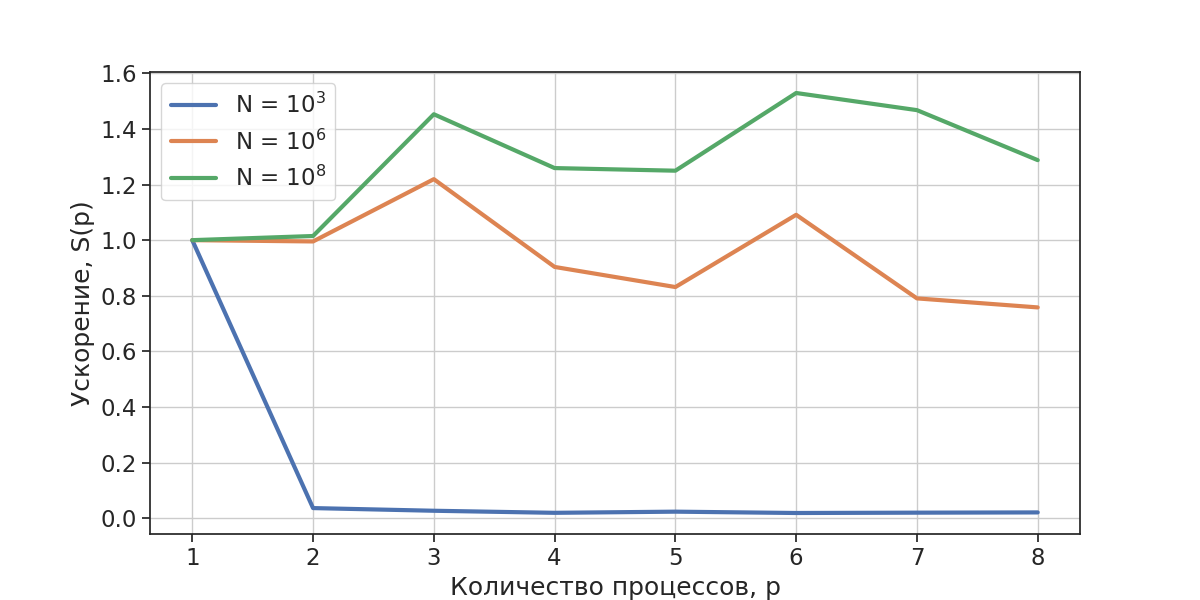
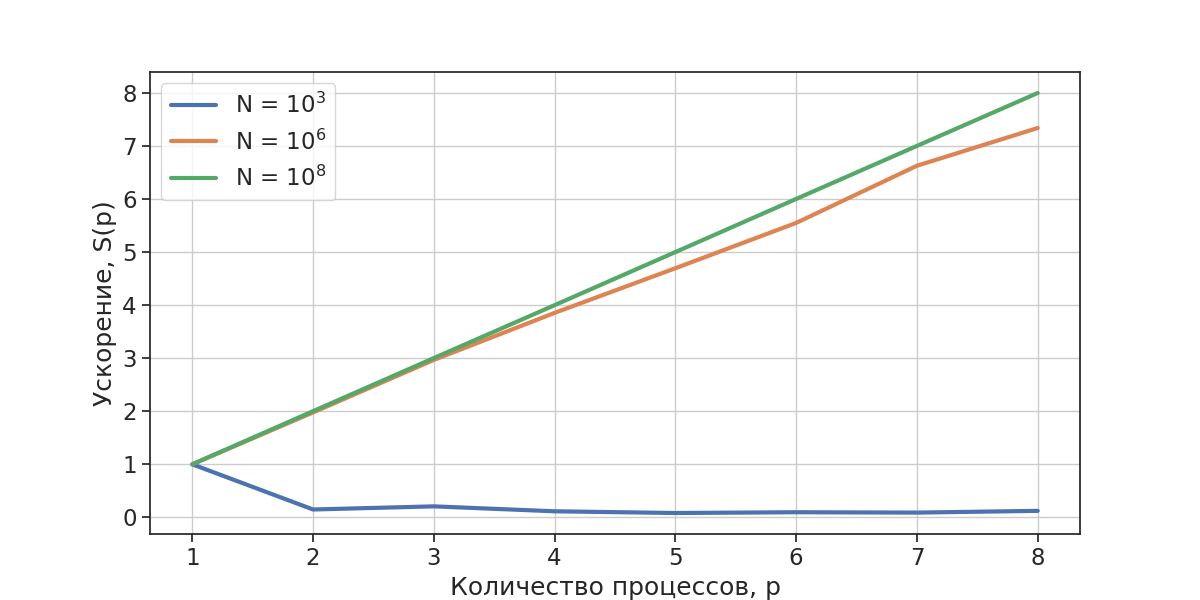
integration version without sending arrays

diff --git a/MPI_OpenMP/hw1_mpi_integral/main.cpp b/MPI_OpenMP/hw1_mpi_integral/main.cpp
@@ -36,83 +36,117 @@ int N_from_cli(int argc, char *argv[]) {
 
 
 
+// double trap(double left, double right, int n, double h) {
+//     double f_cur, f_next;
+//     double x_cur = left;
+//     double x_next = x_cur + h;
+//     double integral = 0;
+//     for (int i = 0; i < n-1; i++) {
+//         f_cur = 4 / (1 + x_cur * x_cur);
+//         f_next = 4 / (1 + x_next * x_next);
+//         integral += (h * 0.5 * (f_cur + f_next));
+//         x_cur += h;
+//         x_next += h;
+//     }
+
+//     return integral;
+// }
+
+
+
 int main(int argc, char *argv[]) {
     int i;
     int pid, n_proc;
     double sum, partial_sum;
     int n_single, n_single_last, last_index;
-    double begin_time, end_time, T_1, T_p, begin_seq, end_seq;
+    double begin_time, end_time, T_1, T_p, begin_seq, end_seq, global_begin_time, global_end_time, T_global;
     double h;
+    double left, right, last_left, last_right;
+    double f_cur, f_next;
 
     MPI_Init(&argc, &argv);
     MPI_Comm_size(MPI_COMM_WORLD, &n_proc);
     MPI_Comm_rank(MPI_COMM_WORLD, &pid);
     MPI_Status Status;
 
+
     int N = N_from_cli(argc, argv);
 
-    double* f = new double[N+1];
-    
     double a = 0;
     double b = 1;
-    h = (double)b / N;
+    h = (double)(b - a) / N;
+   
 
-    n_single = N / n_proc;  // size of subarray for each process
-    n_single_last = n_single + (N % n_proc);
-
+    if (pid != n_proc-1) {
+        n_single = (N / n_proc);
+    } 
+    else {
+        n_single = (N / n_proc) + (N % n_proc);
+    }
+    
 
     // master process
     if (pid == 0) {
-
-        // grid values
-        double* x = new double[N+1];
-        x[0] = 0;
-        for (int i = 1; i < N+1; i++) {
-            x[i] = x[i-1] + h;
-        }
-        // func values
-        for (int i = 0; i < N+1; i++) {
-            f[i] = 4 / (1 + x[i] * x[i]);
-        }
-        delete[] x;
-
-
         /*
             sequential calculations
         */
         begin_seq = MPI_Wtime();
-        sum = 0;
-        for (i = 0; i < N; i++) {
-            sum += (f[i] + f[i+1]) * h * 0.5;
+        double x_cur = 0;
+        double x_next = x_cur + h;
+        double sum_seq = 0;
+        for (int i = 0; i < N-1; i++) {
+            f_cur = 4 / (1 + x_cur * x_cur);
+            f_next = 4 / (1 + x_next * x_next);
+            sum_seq += (h * 0.5 * (f_cur + f_next));
+            x_cur += h;
+            x_next += h;
         }
         end_seq = MPI_Wtime();
         T_1 = end_seq - begin_seq;
-        std::cout << "Sum sequential: " << sum << std::endl;
-        std::cout << "Time sequential: " << T_1 << " sec" << std::endl;
-
+        std::cout << " ------------------------- \n Sum sequential = " << sum_seq 
+                    << "\n Time sequential: " << T_1 << " sec" << 
+                    "\n -------------------------" << std::endl;
+        
 
         /*
             parallel calculations
         */
         if (n_proc > 1) {
-
             begin_time = MPI_Wtime();
 
-            // send parts of array to other processes
+            // send borders to slaves
             for (i = 1; i < (n_proc-1); i++) {
-                MPI_Send(&f[i * n_single], n_single, MPI_DOUBLE, i, i, MPI_COMM_WORLD);
+                left = a + i * (h*n_single);
+                right = left + (h*n_single);
+                MPI_Send(&left, 1, MPI_DOUBLE, i, i, MPI_COMM_WORLD);
+                // MPI_Send(&right, 1, MPI_DOUBLE, i, i, MPI_COMM_WORLD);
             }
-            // send last part of array, which may have different size
-            last_index = (n_proc-1);
-            MPI_Send(&f[N - n_single_last], n_single_last, MPI_DOUBLE, last_index, last_index, MPI_COMM_WORLD);
+
+            // send last part borders, which may have different size
+            last_left = a + (n_proc - 1) * (h*n_single);
+            last_right = b;
+            MPI_Send(&last_left, 1, MPI_DOUBLE, (n_proc-1), (n_proc-1), MPI_COMM_WORLD);
+            // MPI_Send(&last_right, 1, MPI_DOUBLE, (n_proc-1), (n_proc-1), MPI_COMM_WORLD);
+
 
 
             // master processing its part of array
-            sum = 0;
-            for (i = 0; i < n_single; i++) {
-                sum += (f[i] + f[i+1]) * h * 0.5;
+            // left = a;
+            // right = left + (h*n_single);
+            int n_single = (right - left) / h;
+            double x_cur = 0;
+            double x_next = x_cur + h;
+            double sum = 0;
+            for (int i = 0; i < n_single-1; i++) {
+                f_cur = 4 / (1 + x_cur * x_cur);
+                f_next = 4 / (1 + x_next * x_next);
+                sum += (h * 0.5 * (f_cur + f_next));
+                x_cur += h;
+                x_next += h;
             }
-            std::cout << "pid " << pid << "; " << "partial_sum: " << sum << std::endl;
+            std::cout << "pid: " << pid << " --> " << "partial sum = " << sum << std::endl;
+
+
 
             // master recieve result from other processes and combine all results
             for (i = 1; i < n_proc; i++) {
@@ -121,20 +155,19 @@ int main(int argc, char *argv[]) {
             }
 
             end_time = MPI_Wtime();
-            // final result
-            std::cout << " -------------------- \n Sum parallel = " << sum 
-                    << "\n --------------------" << std::endl;
 
-
-            // print time
+            // final result and time
             T_p = end_time - begin_time;
-            std::cout << "Time parallel: " << T_p << " sec" << std::endl;
+            std::cout << " ------------------------- \n Sum parallel = " << sum 
+                    << "\n Time parallel: " << T_p << " sec" << 
+                    "\n -------------------------" << std::endl;
 
+
+            
         }
         else if (n_proc == 1) {
             T_p = T_1;
         }
-
         // save results
         write_data(N, T_1, T_p, n_proc);
     }
@@ -143,29 +176,31 @@ int main(int argc, char *argv[]) {
 
     if (pid != 0) {        
         // recieve data from master process
-        MPI_Recv(&f[0], n_single, MPI_DOUBLE, 0, pid, MPI_COMM_WORLD, &Status);
-
+        MPI_Recv(&left, 1, MPI_DOUBLE, 0, pid, MPI_COMM_WORLD, &Status);
+        // MPI_Recv(&right, 1, MPI_DOUBLE, 0, pid, MPI_COMM_WORLD, &Status);
+  
         // perform calculations
-        std::cout << "pid " << pid << "; ";
+        double x_cur = left;
+        double x_next = x_cur + h;
         double partial_sum = 0;
-        for (i = 0; i < n_single; i++) {
-            partial_sum += (f[i] + f[i+1]) * h * 0.5;
+        // int n_single = (right - left) / h;
+        for (int i = 0; i < n_single-1; i++) {
+            f_cur = 4 / (1 + x_cur * x_cur);
+            f_next = 4 / (1 + x_next * x_next);
+            partial_sum += (h * 0.5 * (f_cur + f_next));
+            x_cur += h;
+            x_next += h;
         }
-        std::cout << "partial_sum: " << partial_sum << std::endl;
-               
+        std::cout << "pid: " << pid << " --> partial sum = " << partial_sum << std::endl;
+        
         // send calc results back to master
         MPI_Send(&partial_sum, 1, MPI_DOUBLE, 0, pid, MPI_COMM_WORLD);
     }
 
 
-
-    delete[] f;
-
+    
     MPI_Finalize();
-
 
     return 0;
 }
-
-
 
